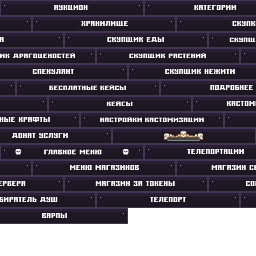
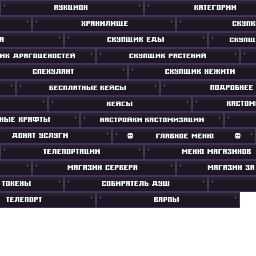
FunTime: широкие логотипы header*.png не переносим — в 9 клеток заголовка они не влезают

diff --git a/tools/import_funtime_pack.py b/tools/import_funtime_pack.py
@@ -185,7 +185,8 @@ def main():
     # ---- 1. заголовки меню ------------------------------------------------
     banner_files = [n for n in names
                     if n.startswith("assets/funtime/textures/menu/") and n.endswith(".png")
-                    and ("title" in n.lower() or n.endswith("header.png"))]
+                    and "title" in n.lower()]   # header.png/header_ny.png — широкие логотипы,
+                                                # в 9 клеток они не влезают (сжимаются в кашу)
     # заголовок → строка символов
     banner_strings: dict[str, str] = {}
     pages = Pages(BANNER_PAGES)
